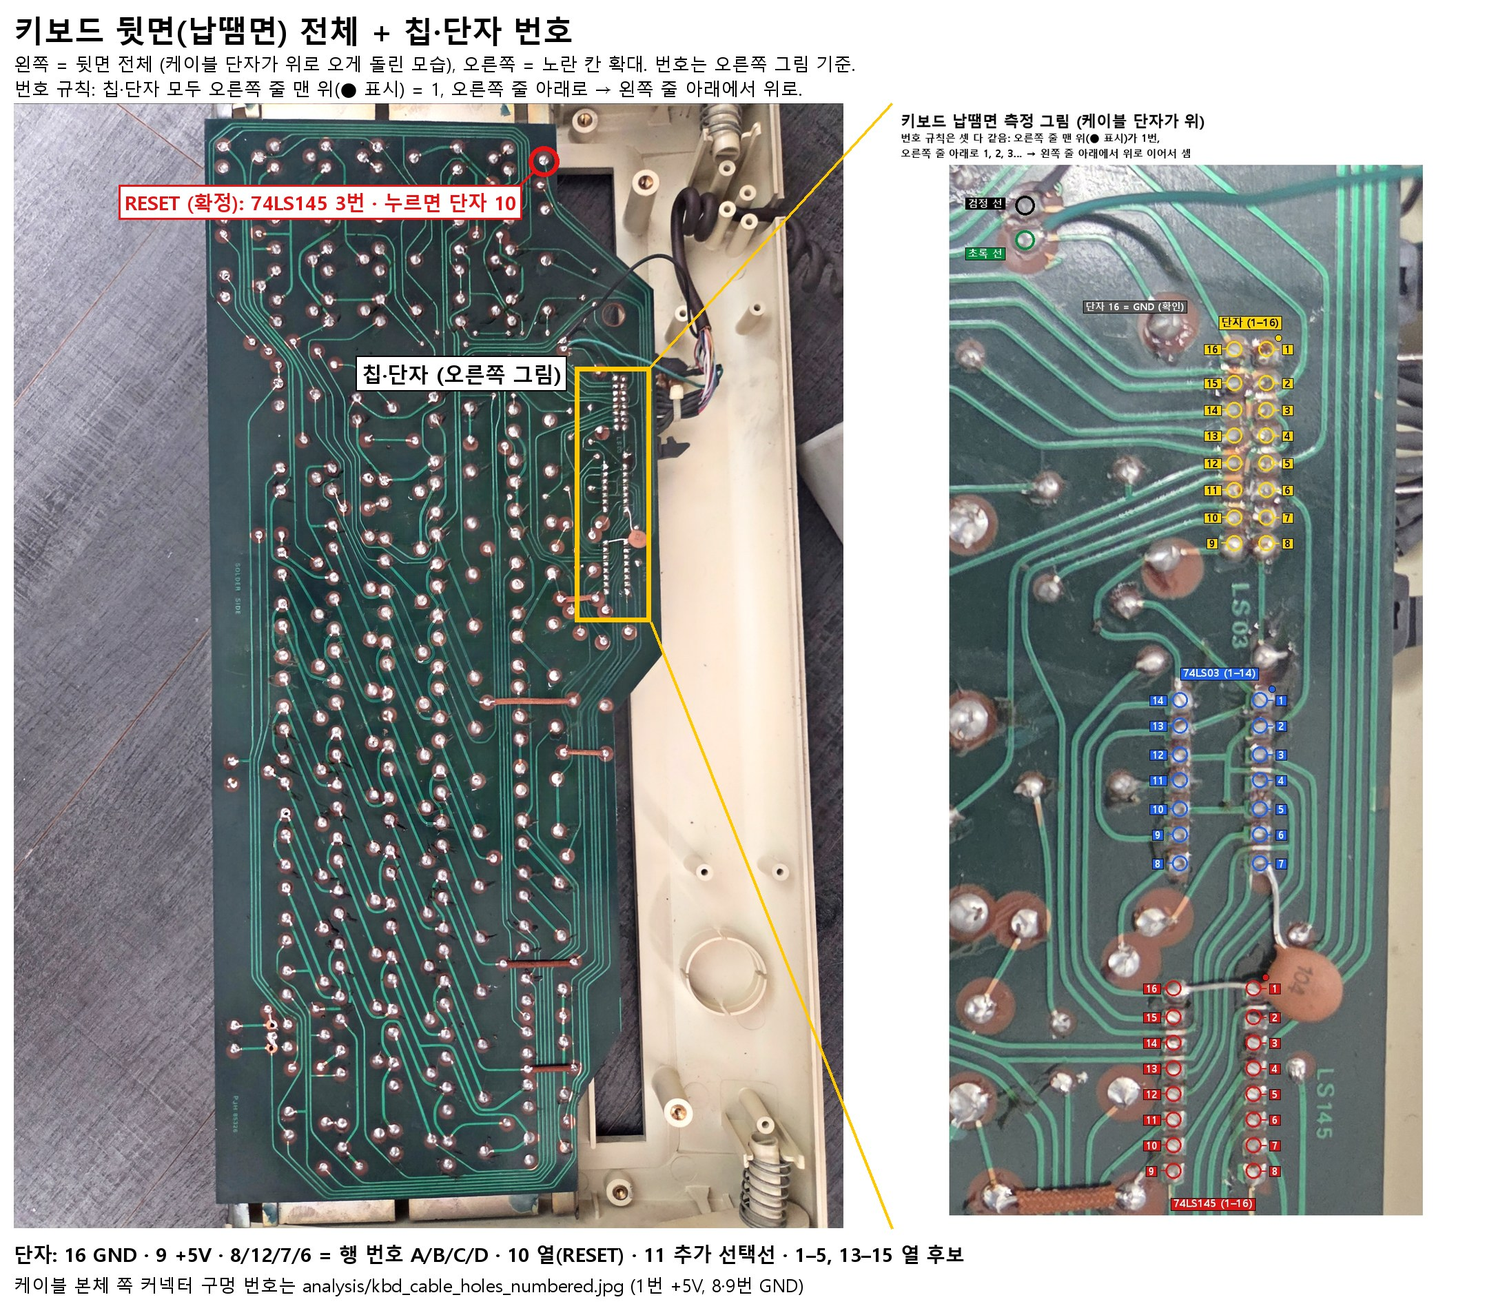
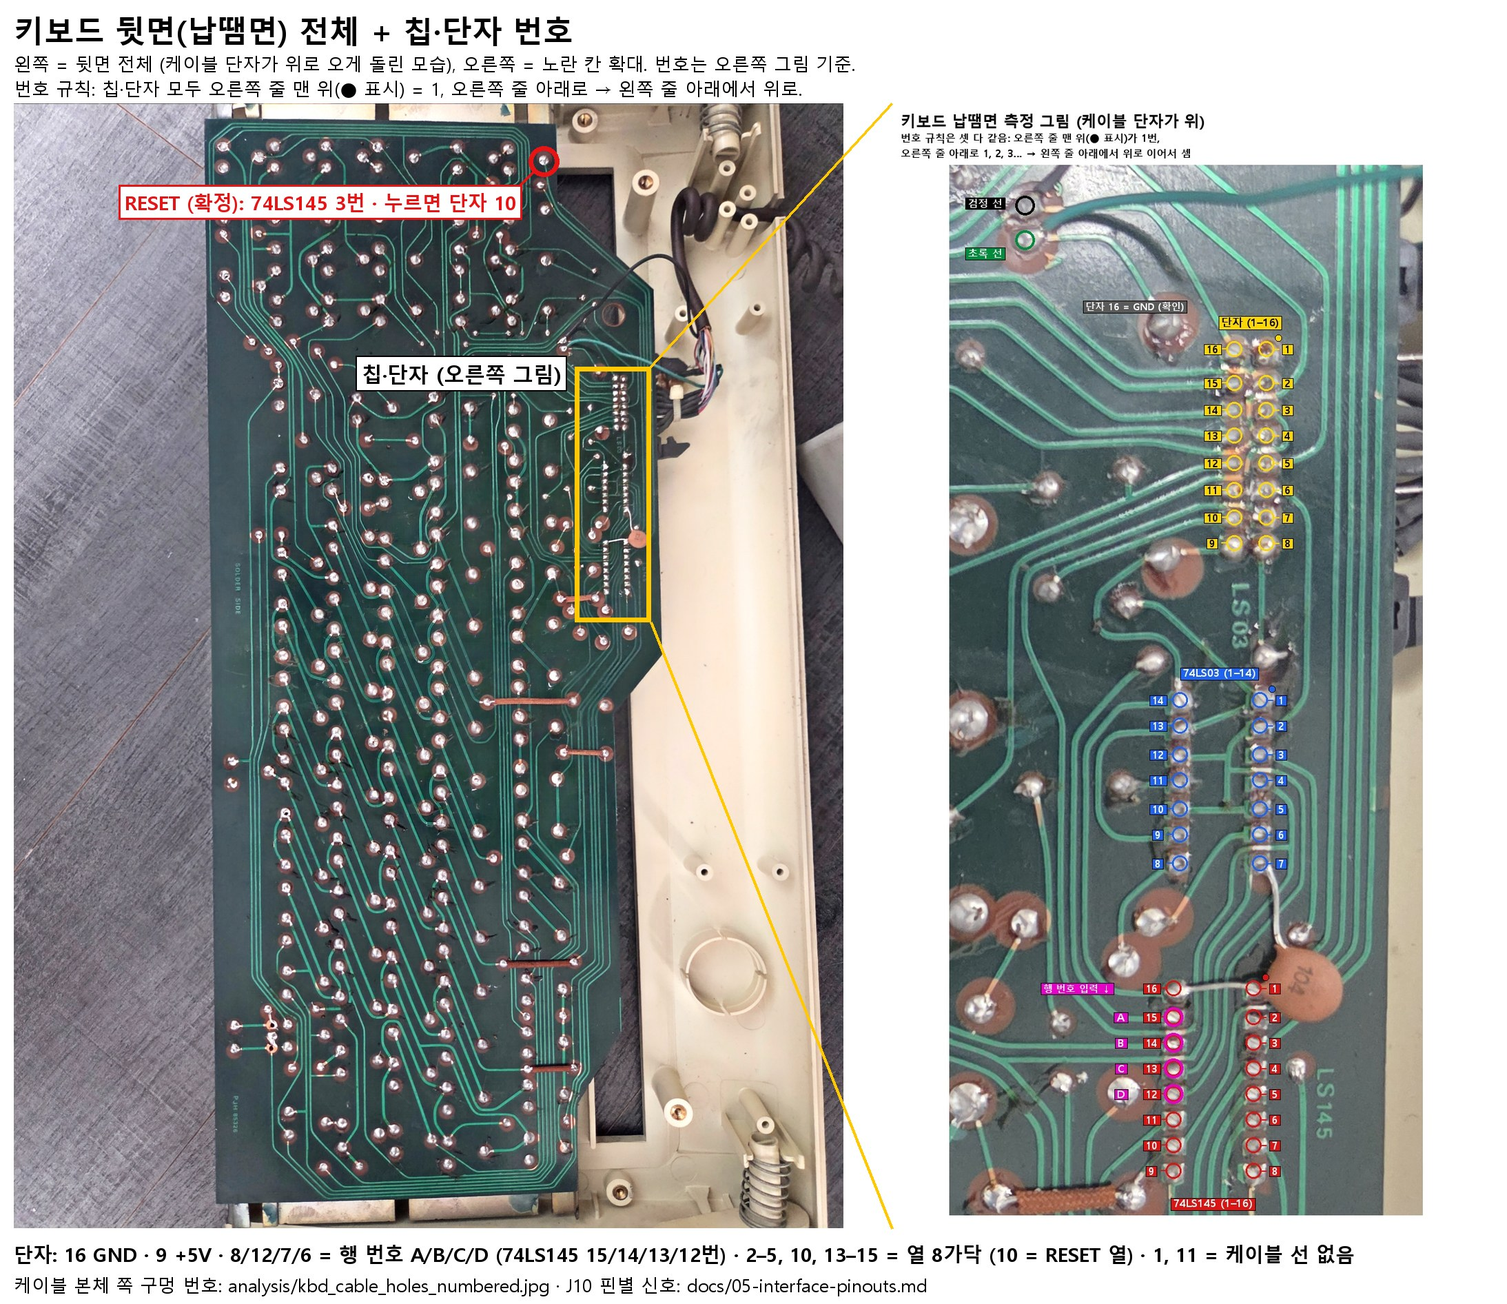
analysis 중복 그림 정리(28→22장): 키보드 A·B·C·D 표시를 kbd_measure_simple에 합치고 RESET 확대는 전체 그림으로 통합, U64 핀 그림 2장을 u64_back_pins 하나로, 겹치는 J10·슬롯 핀40·U30 핀37 그림과 생성 스크립트 삭제, 링크 정리

diff --git a/tools/annotate_kbd_measure.py b/tools/annotate_kbd_measure.py
@@ -51,6 +51,15 @@ part(2565, 2615, ROWS, YEL, BLK, "단자 (1–16)", (2590, 1205))
 part(2480, 2605, [1795, 1835, 1880, 1920, 1965, 2005, 2050], BLUE, WHITE, "74LS03 (1–14)", (2542, 1752))
 part(2470, 2595, [2245, 2290, 2330, 2370, 2410, 2450, 2490, 2530], RED, WHITE, "74LS145 (1–16)", (2532, 2580))
 
+# 74LS145 입력 A·B·C·D (15·14·13·12번) — 본체가 보내는 행 번호, 2026-11-08 Hz 측정으로 확인
+PINK = (230, 0, 200)
+for no, name in ((15, "A"), (14, "B"), (13, "C"), (12, "D")):
+    y = [2245, 2290, 2330, 2370, 2410, 2450, 2490, 2530][16 - no]
+    ring(2470, y, PINK, 15, 4)
+    cx, cy = M(2470, y)
+    tag((cx - 82, cy), f"{name}", WHITE, PINK, 17)
+tag((M(2470, 2245)[0] - 150, M(2470, 2245)[1]), "행 번호 입력 ↓", WHITE, PINK, 15)
+
 ring(2238, 1023, BLK, 15, 4); ring(2238, 1077, GRN, 15, 4)
 tag((M(2238, 1023)[0] - 62, M(2238, 1023)[1] - 4), "검정 선", WHITE, BLK, 16)
 tag((M(2238, 1077)[0] - 62, M(2238, 1077)[1] + 20), "초록 선", WHITE, GRN, 16)

diff --git a/tools/make_kbd_solder_overview.py b/tools/make_kbd_solder_overview.py
@@ -65,6 +65,6 @@ d.text((tx, ty), lab, font=F(28), fill=RED)
 
 # 아래 요약
 y = TOP + nh + 18
-d.text((20, y), "단자: 16 GND · 9 +5V · 8/12/7/6 = 행 번호 A/B/C/D · 10 열(RESET) · 11 추가 선택선 · 1–5, 13–15 열 후보", font=F(28), fill=BLK)
-d.text((20, y + 46), "케이블 본체 쪽 커넥터 구멍 번호는 analysis/kbd_cable_holes_numbered.jpg (1번 +5V, 8·9번 GND)", font=FR(26), fill=BLK)
+d.text((20, y), "단자: 16 GND · 9 +5V · 8/12/7/6 = 행 번호 A/B/C/D (74LS145 15/14/13/12번) · 2–5, 10, 13–15 = 열 8가닥 (10 = RESET 열) · 1, 11 = 케이블 선 없음", font=F(28), fill=BLK)
+d.text((20, y + 46), "케이블 본체 쪽 구멍 번호: analysis/kbd_cable_holes_numbered.jpg · J10 핀별 신호: docs/05-interface-pinouts.md", font=FR(26), fill=BLK)
 canvas.save(OUT, quality=88)

diff --git a/docs/08-repair-log.md b/docs/08-repair-log.md
@@ -31,7 +31,7 @@
 - 키 매트릭스처럼 **아주 짧은 펄스는 Hz로 못 셈**(0Hz로 나옴). 대신 **DC V로 누름/뗌 평균 전압 비교**가 확실함.
 - 74LS145 출력은 오픈 컬렉터 → 키를 안 누르면 떠 있어서 값이 의미 없음.
 - 테스터 **"O.L"** = 안 통함(측정 범위 초과). 0Ω과 반대.
-- 측정 그림: 스캔 신호·74LS145 핀 위치 [`analysis/kbd_scan_abcd.jpg`](../analysis/kbd_scan_abcd.jpg). (전원·RESET 접점 측정용 그림과 케이블 검사표·옛 결선표는 틀린 값/끝난 검사라 2026-11-08 삭제, git 기록에 있음)
+- 측정 그림: [`analysis/kbd_measure_simple.jpg`](../analysis/kbd_measure_simple.jpg) (74LS145 A·B·C·D 표시 포함), 전체 [`analysis/kbd_solder_overview.jpg`](../analysis/kbd_solder_overview.jpg). (전원·RESET 접점 측정용 그림, 케이블 검사표·옛 결선표, A·B·C·D 별도 그림은 2026-11-08 삭제·통합, git 기록에 있음)
 
 ### 같은 날 전원 켜짐 증상
 
@@ -69,7 +69,7 @@
     - **2026-11-08 사용자: "원래 키보드가 맞다"** — 키보드 ↔ 본체 연결 사진 [`082634`](../photos/keyboard/20261108_082634_kbd-connected-to-board_original-pair.jpg). 원래 짝인 키보드와 공장 배선 케이블이므로 **D선이 구멍 3번에 있는 것도 원래 배선일 가능성이 높음** → "D선 옮기기" 추정은 보류(거의 철회). 단자=구멍+8 규칙은 내가 측정값에서 뽑은 규칙일 뿐이고, J10 핀 배치가 그 규칙을 꼭 따를 이유는 없음. 남는 원인 후보: (1) 꼬인(코일) 케이블 속 끊김·접촉 불량(구부림에 따라 달라짐, 어제 구멍 2·7 불통 측정과 연결), (2) 키보드 쪽 74LS145/74LS03, (3) 본체 쪽 스캔 회로(U80/U81 주변). 다음: 전원 켜고 키보드 꽂은 상태에서 키보드 안 74LS145의 A·B·C·D 입력 핀 Hz 측정(차례로 반씩 줄어야 정상).
     - **2026-11-08 사용자: 케이블 여러 번 측정 → 값 일정, 코일 구부림에 따라 끊겼다 이어졌다 하지 않음** → 원인 후보 (1) 케이블 간헐 끊김은 제외. 남은 후보: 키보드 칩(74LS145/74LS03) 또는 본체 스캔 회로. 다음은 74LS145 A·B·C·D(15·14·13·12번 핀) Hz 측정.
     - **2026-11-08 사용자 재측정: 구멍 2↔단자 10, 구멍 7↔단자 15 모두 통함** → 2026-11-07의 "두 가닥 끊김" 판단은 측정 실수였던 것으로 정정. **케이블 14가닥 모두 정상 (확정).**
-    - **2026-11-08 74LS145 입력 Hz (전원 ON, 키보드 연결, 검정 침 단자 16, 사용자)**: 15번(A) 44.7 kHz · 14번(B) 94 kHz · 13번(C) 105 kHz · 12번(D) 46 kHz. 그림 [`analysis/kbd_scan_abcd.jpg`](../analysis/kbd_scan_abcd.jpg). → **4가닥 모두 움직임 = 본체가 스캔 신호를 보내고 케이블로 잘 도착함.** 값이 반씩 줄지 않는 것은 단순 2진 카운터가 아니거나(주소선 등에서 가져옴) 테스터 Hz가 불규칙 신호를 잘못 세는 것일 수 있음 — 판단 보류. 다음: 74LS145 16번 +5V(DC), 출력 핀 1–7·9–11 Hz.
+    - **2026-11-08 74LS145 입력 Hz (전원 ON, 키보드 연결, 검정 침 단자 16, 사용자)**: 15번(A) 44.7 kHz · 14번(B) 94 kHz · 13번(C) 105 kHz · 12번(D) 46 kHz. 그림 [`analysis/kbd_measure_simple.jpg`](../analysis/kbd_measure_simple.jpg). → **4가닥 모두 움직임 = 본체가 스캔 신호를 보내고 케이블로 잘 도착함.** 값이 반씩 줄지 않는 것은 단순 2진 카운터가 아니거나(주소선 등에서 가져옴) 테스터 Hz가 불규칙 신호를 잘못 세는 것일 수 있음 — 판단 보류. 다음: 74LS145 16번 +5V(DC), 출력 핀 1–7·9–11 Hz.
     - **2026-11-08 74LS145 16번(Vcc) = 0V (사용자, 검정 침 단자 16)** → 키보드 칩에 전원이 안 들어감. 출력이 안 나오니 매트릭스 키 전체가 안 먹는 증상과 일치 (Disp는 따로 배선된 키라 동작한다고 보면 설명됨). 16번 핀에 흰 점퍼선이 붙어 있음(사진상 104 콘덴서 쪽으로 감) → 점퍼선 납땜 불량이 1순위 후보. 확인: 단자 9(+5V) 전압, 단자 9↔16번 핀 통전, 74LS03 14번 전압.
     - **정정 (2026-11-08 재측정, 사용자)**: 74LS145 16번 **4.9V**, 74LS03 14번 **4.9V**, 단자 9 **4.9V** → 앞의 0V는 측정 실수. **키보드 칩 전원 정상.** 다음: 74LS145 출력 1–7·9–11번 Hz.
     - **74LS145 출력 1–7·9–11번 = 모두 약 60Hz (사용자, 키 안 누름)** → 판단 불가. 74LS145 출력은 **오픈 컬렉터**(LOW로 당기기만 함)라 키를 안 누르면 출력선이 어디에도 안 이어져 떠 있음 → 테스터가 전기 배선의 60Hz 잡음을 읽은 것으로 봄. 출력이 정상인지는 **키를 누른 상태**에서 열(Y) 쪽을 재야 알 수 있음. 열 후보 = 단자 2·3·4·5·10·13·14·15 (8개, U80/U81 74LS257 2개 = 8입력과 수 맞음, 추정). 다음: (1) 키 안 누르고 열 후보 단자 DC V (본체 풀업이면 ~5V), (2) RESET 키 누른 채 74LS145 3번·단자 10 Hz.
@@ -96,7 +96,7 @@
 
 **2026-11-07 키보드 단자 J10**: 키보드 케이블이 J10(2×8 라이트앵글 핀헤더)에 꽂혀 있던 것을 확인 → **J10 = 키보드 단자 확정**. 사진: [`photos/keyboard/20261107_131132_J10-header_connector-unplugged.jpg`](../photos/keyboard/20261107_131132_J10-header_connector-unplugged.jpg)(J10과 뽑은 커넥터), [`photos/keyboard/20261107_133005_connector-wiring-side.jpg`](../photos/keyboard/20261107_133005_connector-wiring-side.jpg)(커넥터 뒷면 배선).
 - 케이블 쪽 커넥터: 2×8, **방향 돌기(키) 없음** → 거꾸로 꽂힐 수 있음. 전선을 한 가닥씩 핀에 연결하고 각각 수축튜브, 흰 케이블타이로 묶음(수작업 배선으로 보임). 16칸 중 일부는 전선이 없어 **핀만 뒤로 튀어나와 있음**(원래 구조, 이상 아님).
-- 메인보드 J10 **케이스 반대쪽 끝 2핀 = GND**: 전원 끈 상태에서 슬롯1 핀 26(GND)과 테스터 통전 확인 (사용자 측정). 위치 = **케이스(뒤판) 반대쪽 끝**, 위에서 본 사진에서 아래쪽 끝 한 쌍(핀헤더 받침이 넓은 쪽). 케이스 쪽 끝 2핀은 미확인. 위치 표시: [`analysis/j10_gnd_pins_zoom.jpg`](../analysis/j10_gnd_pins_zoom.jpg), [`analysis/j10_gnd_pins_overview.jpg`](../analysis/j10_gnd_pins_overview.jpg). 정품 Apple II 키보드 배치(1번 +5V, 8번 GND)와 다름 → 이 보드 고유 배치로 보임.
+- 메인보드 J10 **케이스 반대쪽 끝 2핀 = GND**: 전원 끈 상태에서 슬롯1 핀 26(GND)과 테스터 통전 확인 (사용자 측정). 위치 = **케이스(뒤판) 반대쪽 끝**, 위에서 본 사진에서 아래쪽 끝 한 쌍(핀헤더 받침이 넓은 쪽). 케이스 쪽 끝 2핀은 미확인. 위치 표시: [`analysis/kbd_plug_direction.jpg`](../analysis/kbd_plug_direction.jpg), [`analysis/j10_gnd_pins_overview.jpg`](../analysis/j10_gnd_pins_overview.jpg). 정품 Apple II 키보드 배치(1번 +5V, 8번 GND)와 다름 → 이 보드 고유 배치로 보임.
 - **뒷면 사진 판독** (뒷면 212435를 앞면 좌표로 옮겨 봄): [`analysis/j10_keyboard_back.jpg`](../analysis/j10_keyboard_back.jpg), 도구 [`tools/annotate_j10_keyboard.py`](../tools/annotate_j10_keyboard.py). 행 1 = GND 끝, 행 8 = 케이스 쪽 끝. 열 A = SIP·U80 쪽, 열 B = U81 쪽.
     - 행8 열B: 뒷면 선이 보드 가장자리 선으로 내려가고 같은 선에 U81 핀 16(Vcc)이 붙음 → **+5V 추정** (U81 핀 번호는 칩 글자 방향으로 판단, 측정 필요).
     - J10 옆 미실장 구멍 7개(J10 행과 같은 간격, 7행 자리만 없음) → 다른 키보드용 단자 자리 추정.
@@ -123,7 +123,7 @@
         - 74LS03 1번이 단자 12와 통하므로 74LS145 14번(B)도 단자 12여야 함 (앞의 "B 통전 없음"과 어긋남 → 재확인 필요).
         - **재측정 (2026-11-07, 사용자): 74LS145 14번(B) ↔ 단자 12 통전 확인.** 앞의 "B 통전 없음"은 측정 실수(접촉·핀 위치)로 판단. → 행 번호 4비트 A·B·C·D = 단자 8·12·7·6 확정. 위의 "B가 GND에 묶였다면" 가정은 폐기.
         - **초록 선 측정 (2026-11-07, 사용자)**: RESET 키를 누른 채 초록 ↔ 검정 **통전 없음** → 초록·검정 선은 RESET 키 스위치가 아님(또는 다른 키). RESET 키 다리 ↔ 단자 16(GND)은 **누르든 안 누르든 통전** → RESET 스위치 한쪽 다리 = GND. 반대쪽 다리가 어느 단자로 가는지 미확인. RESET을 누른 채 단자 16 ↔ 단자 1–15 → **누를 때 통전되는 단자 없음** (사용자). 스위치 자체 불량, 측정 위치(다른 키 패드) 착오, 또는 단자 아닌 곳(초록 선·저항·칩 입력)으로 가는 경우 중 미확인.
-        - 납땜면 RESET 위치: 앞면 오른쪽 아래 모서리 키 → 납땜면은 좌우 반전이라 **왼쪽 아래 모서리** (위 = Del, 오른쪽 = '/'). 그림 [`analysis/kbd_reset_solder.jpg`](../analysis/kbd_reset_solder.jpg), 도구 [`tools/annotate_kbd_reset.py`](../tools/annotate_kbd_reset.py). 빨간 칸 안 패드 약 6개 중 어느 둘이 RESET 스위치인지는 사진으로 확정 못 함 → 누른 채 통전으로 확정.
+        - 납땜면 RESET 위치: 앞면 오른쪽 아래 모서리 키 → 납땜면은 좌우 반전이라 **왼쪽 아래 모서리** (위 = Del, 오른쪽 = '/'). 그림 [`analysis/kbd_solder_overview.jpg`](../analysis/kbd_solder_overview.jpg) (빨간 원; RESET 확대 그림은 2026-11-08 이 그림으로 합침). 빨간 칸 안 패드 약 6개 중 어느 둘이 RESET 스위치인지는 사진으로 확정 못 함 → 누른 채 통전으로 확정.
         - **측정 (2026-11-07, 사용자)**: 빨간 칸 **왼쪽 줄 가운데 패드** = RESET 스위치 다리 (그림의 **빨간 원** = RESET 확정 패드, 사용자 확인). RESET을 누른 채 그 패드 ↔ **단자 10** 통전. 단자 16(GND) ↔ 단자 10은 눌러도 통전 없음(앞 측정) → RESET은 GND 직결 키가 아니라 **키 매트릭스 안의 키**로 판단: 단자 10 = 열 선 하나, 왼쪽 가운데 패드 = 행 쪽(74LS145/74LS03 출력 후보). 앞의 "RESET 다리 ↔ 단자 16 상시 통전"은 다른 패드를 잰 것으로 보임 (재확인 대상).
         - **측정 (2026-11-07, 사용자)**: RESET 행 쪽 패드 ↔ **74LS145 3번(Y2)** 통전, 74LS03 출력(3·6·8·11)과는 통전 없음. → **RESET = 행 2 (D C B A = 0 0 1 0, 단자 12(B)만 High) × 열 단자 10.** 매트릭스 키 첫 확정.
         - 부품면 저항 위치: [`analysis/kbd_resistor_location.jpg`](../analysis/kbd_resistor_location.jpg) (JAE 16P 단자 왼쪽, 세로로 선 저항). 도구 [`tools/annotate_kbd_resistor.py`](../tools/annotate_kbd_resistor.py).
@@ -214,7 +214,7 @@ X1 → U72 (발진) ─┬→ U64 클럭: 1.9V (정상)
 - 다음: 슬롯1 핀 40 ↔ 슬롯 2–4 핀 40 도통, U30 핀 37 ↔ 슬롯 2–4 핀 40·슬롯4 비아 도통.
 
 ### 슬롯1 핀 40 뒷면 추적 (2026-11-07, 사진 203240 판독)
-그림: [`analysis/slot1_pin40_back.jpg`](../analysis/slot1_pin40_back.jpg)
+그림: [`analysis/slots_pin40_back.jpg`](../analysis/slots_pin40_back.jpg)
 - 뒷면 슬롯1 = 오른쪽 끝 슬롯(J1 바로 왼쪽). 오른쪽 줄 = 26(위)–50(아래), 핀 40 = 위에서 15번째 (원본 좌표 약 1930, 575).
 - **핀 40 뒷면 납땜점에는 뒷면 선이 없음** → U78·다른 슬롯과의 연결은 모두 앞면(슬롯 커넥터 몸통 아래)으로 지나감. 사진으로 더 추적 불가.
 - U30 핀 37도 뒷면은 비아까지만 → 끊긴 곳은 앞면 쪽일 가능성.
@@ -229,7 +229,7 @@ X1 → U72 (발진) ─┬→ U64 클럭: 1.9V (정상)
 4. 앞면 ① 다리에서 오른쪽 위로 나가는 가는 선 따라가기
 
 ### 000000000. (완료) 뒷면 사진으로 핀 37 패턴 판독 이후
-그림: [`analysis/u30_pin37_back.jpg`](../analysis/u30_pin37_back.jpg)
+그림: [`analysis/u30_pin37_overlay.jpg`](../analysis/u30_pin37_overlay.jpg)
 사진 225321 확대 판독(확실성 중간–높음): 뒷면 핀 37 납땜점 → 아래로 곧게 → 핀 4·3 사이 통과(붙지 않음) → 핀 4 아래 약 8–9mm 비아에서 앞면으로 넘어감. 뒷면에는 비아 너머 선 없음. 앞면 쪽 경로는 사진으로 못 따라감 (U30 아래 1kΩ 저항(갈·흑·적) 근처로 추정).
 1. (끄고, 도통) U30 핀 37 ↔ 그 비아. 삐 → 뒷면 정상, 끊김은 앞면 쪽. 안 삐 → 뒷면 노란 선 구간 끊김
 2. (끄고, 도통) 비아 ↔ 슬롯 핀 40

diff --git a/docs/04-open-questions.md b/docs/04-open-questions.md
@@ -24,7 +24,7 @@
     1. ~~74LS145 14번(B) ↔ 단자 12 재확인~~ → 통전 확인 (2026-11-07). B = 단자 12 확정
     2. 부품면 저항 1개 ([위치 그림](../analysis/kbd_resistor_location.jpg)): 두 다리가 각각 어디와 통하는지 (단자 1–16, 74LS03 1·10·12번)
     3. (일부 완료 2026-11-08: 열 선 = 단자 2·3·4·5·10·13·14·15, 모두 4.9V 풀업. 단자 1은 케이블에 선 없음 추정) 남은 단자 1·2·3·4·5·10·13·14·15 (열 선 후보): 키를 누른 채 단자 ↔ 74LS145 출력핀(1–7, 9–11)·74LS03 출력핀(3·6·8·11) 통전
-    4. ~~초록 선: Reset 키를 누른 채 초록 ↔ 검정~~ → 통전 없음 (2026-11-07). RESET 키 한쪽 다리 = 단자 16(GND) 상시 통전. 남은 것: RESET 키를 누른 채 단자 16 ↔ 단자 1–15 (누를 때만 삑 하는 단자 = RESET 선) → **해당 단자 없음** (2026-11-07). → RESET 패드(납땜면 [그림](../analysis/kbd_reset_solder.jpg) 빨간 칸 왼쪽 가운데)는 누를 때 **단자 10**과 통전 = 매트릭스 키. → 그 패드 = **74LS145 3번(Y2)** → **RESET = 행 2 × 열 단자 10 확정** (2026-11-07). 같은 방법(키 누른 채 패드 ↔ 단자, 반대 패드 ↔ 칩 출력)으로 다른 키도 찾을 수 있음. 다음: 납땜면 RESET 스위치 두 패드 사이를 누른 채 직접 통전(스위치 자체 동작 확인) → 동작하면 GND 아닌 쪽 패드 ↔ 초록 선·저항 다리·74LS145/74LS03 모든 핀. 초록·검정 선 용도는 미확인
+    4. ~~초록 선: Reset 키를 누른 채 초록 ↔ 검정~~ → 통전 없음 (2026-11-07). RESET 키 한쪽 다리 = 단자 16(GND) 상시 통전. 남은 것: RESET 키를 누른 채 단자 16 ↔ 단자 1–15 (누를 때만 삑 하는 단자 = RESET 선) → **해당 단자 없음** (2026-11-07). → RESET 패드(납땜면 [그림](../analysis/kbd_solder_overview.jpg) 빨간 칸 왼쪽 가운데)는 누를 때 **단자 10**과 통전 = 매트릭스 키. → 그 패드 = **74LS145 3번(Y2)** → **RESET = 행 2 × 열 단자 10 확정** (2026-11-07). 같은 방법(키 누른 채 패드 ↔ 단자, 반대 패드 ↔ 칩 출력)으로 다른 키도 찾을 수 있음. 다음: 납땜면 RESET 스위치 두 패드 사이를 누른 채 직접 통전(스위치 자체 동작 확인) → 동작하면 GND 아닌 쪽 패드 ↔ 초록 선·저항 다리·74LS145/74LS03 모든 핀. 초록·검정 선 용도는 미확인
     6. **(선택, 보류)** Disp·Ctrl 키의 행 × 열 — 사진 추정 위치에서 패드를 찾기 어려워 보류 (2026-11-07). 하려면 해당 부분 납땜면 근접 사진으로 패드부터 특정할 것. 목적: Disp만 반응하고 Ctrl+RESET이 안 먹는 원인이 "본체가 일부 열만 못 읽음"인지 가르기
     5. **(완료 2026-11-08: 14가닥 전부 확인, 정상)** 케이블 양 끝 대응: 키보드 단자 번호 ↔ 본체 쪽 커넥터 구멍 (본체 J10 GND 끝 기준). 꽂는 방향은 결정됨 ([`analysis/kbd_plug_direction.jpg`](../analysis/kbd_plug_direction.jpg)). 본체 쪽 커넥터 구멍 번호 기준: [`analysis/kbd_cable_holes_numbered.jpg`](../analysis/kbd_cable_holes_numbered.jpg) (1번 +5V, 8·9번 GND). 결과 표: [05 "키보드 단자 J10"](05-interface-pinouts.md)
         - **측정 (2026-11-07, 사용자)**: 본체 쪽 커넥터에서 **글자(JAE…) 찍힌 면 쪽 줄**의 양 끝 구멍 — 한쪽 끝 = GND(키보드 단자 16), 반대쪽 끝 = +5V(키보드 단자 9). (안내 그림 2번 사진 기준 위 = GND, 아래 = +5V.) → GND·+5V가 같은 줄 양 끝. **J10 +5V 확인 (2026-11-07, 사용자)**: 케이스 쪽 끝 **왼쪽 핀(SIP·U80 반대쪽 줄)** = +5V. → 꽂는 방향 결정: 커넥터 글자 면 줄 → J10 왼쪽 줄, GND 끝 → 케이스 반대쪽. 그림 [`analysis/kbd_plug_direction.jpg`](../analysis/kbd_plug_direction.jpg). 꽂은 뒤 전원 켜기 전 통전 확인(단자 9↔슬롯1 25, 단자 16↔슬롯1 26, 9↔16 안 통함). J10 GND는 케이스 반대쪽 끝 2핀이므로, 예상대로 J10 +5V가 케이스 쪽 끝이면 글자 면 줄을 그 +5V 핀 줄에 맞추고 GND 끝을 케이스 반대쪽으로 꽂으면 됨.

diff --git a/docs/07-back-trace-notes.md b/docs/07-back-trace-notes.md
@@ -92,7 +92,7 @@ U65 "VD5"는 그동안 40컬럼 문자 ROM으로 추정했지만, U64 데이터 
 
 ## U64 (두 번째 6502) 뒷면 핀 배치
 
-![U64 뒷면 핀맵](../analysis/u64_back_pinmap.jpg)
+![U64 뒷면 핀맵](../analysis/u64_back_pins.jpg)
 
 앞면에서 U64는 노치가 왼쪽(트리머 콘덴서 쪽)이고 1번 핀이 왼쪽 아래입니다. 앞면 확대 사진 212258에서 노치 위치를 확인했습니다. 뒷면에서는 좌우가 바뀌어 **1번 핀이 아래 줄 오른쪽 끝**입니다. 패드 간격 2.54mm, 줄 간격 15.24mm(600mil)로 정합 결과와 맞습니다.
 
@@ -128,7 +128,7 @@ U65 "VD5"는 그동안 40컬럼 문자 ROM으로 추정했지만, U64 데이터 
 
 ## 역광 사진 분석 (2026-11-05 23:25 촬영)
 
-![U64 역광 핀 표시](../analysis/u64_backlit_pins.jpg)
+(역광 확대는 위 [`analysis/u64_back_pins.jpg`](../analysis/u64_back_pins.jpg) 아래쪽에 합쳐 둠)
 
 역광 사진에서는 양면의 구리가 그림자로 겹쳐 보입니다. U64와 U30을 같은 조건에서 비교했습니다.
 

diff --git a/photos/README.md b/photos/README.md
@@ -103,7 +103,7 @@ photos/
 
 | 파일 | 내용 |
 | --- | --- |
-| backlit/232515_backlit_U64.jpg | 두 번째 6502 뒷면. 핀 번호 표시본: [`analysis/u64_backlit_pins.jpg`](../analysis/u64_backlit_pins.jpg) |
+| backlit/232515_backlit_U64.jpg | 두 번째 6502 뒷면. 핀 번호 표시본: [`analysis/u64_back_pins.jpg`](../analysis/u64_back_pins.jpg) |
 | backlit/232518_backlit_U64-left_U72-row.jpg | U64 왼쪽(뒷면 기준)과 아래 줄 |
 | backlit/232548_backlit_dram-area.jpg | DRAM 구역 |
 | backlit/232551_backlit_U30.jpg | 메인 6502 뒷면 (비교용) |
